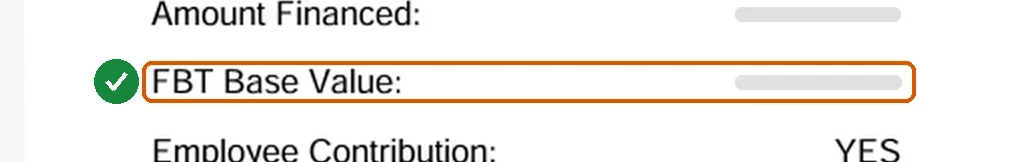
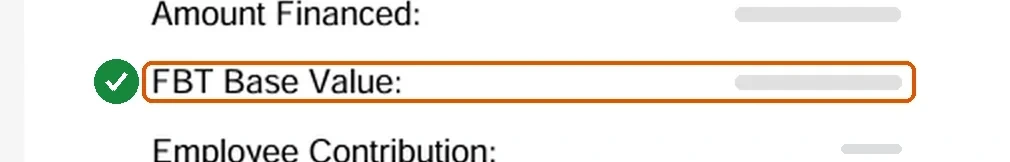
Blank variable answers in Custom Fleet quote guide

Changed region(s): [[0.8287, 0.8333, 0.8901, 1.0]]

diff --git a/calculator2/tests/provider-picker.test.tsx b/calculator2/tests/provider-picker.test.tsx
@@ -929,7 +929,7 @@ describe("provider pointers", () => {
     for (const field of ["driveaway", "luxAdj", "fees"] as const)
       expect(article).toContain(pointersFor("customfleet", field)[0].text);
     expect(article).toContain("pick one column and the matching period; ex GST");
-    expect(article).toContain("leave them out");
+    expect(article).not.toContain('Roadside Assistance and Accident Management are "Included in Lease Rental"');
   });
 
   test("Vehicle Solutions keeps both fortnightly GST payment choices", () => {

diff --git a/PROVIDER_GUIDE_HANDOVER_2026-11-15.md b/PROVIDER_GUIDE_HANDOVER_2026-11-15.md
@@ -144,6 +144,15 @@ Providers:
   to find the base value when the sample doesn't print it.
 - Built the calculator/export and restarted Astro preview at `http://10.1.1.108:4340/`.
   Targeted provider tests: 101 passed; eslint on changed TypeScript: clean. No push or merge.
+
+## 16 Nov: Custom Fleet example cleanup
+
+- Blanked quote-specific choice answers in the published Custom Fleet page and affected Guided
+  crops: employee contribution, fuel, insurance arrangement, roadside assistance, accident
+  management and Peace of Mind Plan. Kept the field names and numbered markers. Confirmed OCR
+  finds none of the old answer text in any published Custom Fleet image.
+- Removed the article's instruction that Roadside Assistance and Accident Management are
+  “Included in Lease Rental”; that was only true of this one example.
 10. Parked by the owner: Queensland Government "Summary Table" quotes
     (`~/novated-lease-guide/private/qld-summary-table/`).
 

diff --git a/new-site/src/content/docs/start-here/how-to-read-customfleet-quote.md b/new-site/src/content/docs/start-here/how-to-read-customfleet-quote.md
@@ -37,8 +37,7 @@ Nothing on the Custom Fleet quotes we checked looked easy to misread. The table 
 | 11 | Interest Rate | Compare with the effective rate Guided shows |
 <!-- provider-table:end -->
 
-Not shown on this sample: **3 lease term** (find the term on another page or ask the provider). Roadside
-Assistance and Accident Management are "Included in Lease Rental"; leave them out.
+Not shown on this sample: **3 lease term** (find the term on another page or ask the provider).
 
 <!-- provider-missing:begin -->
 ## If a figure isn't on your quote
